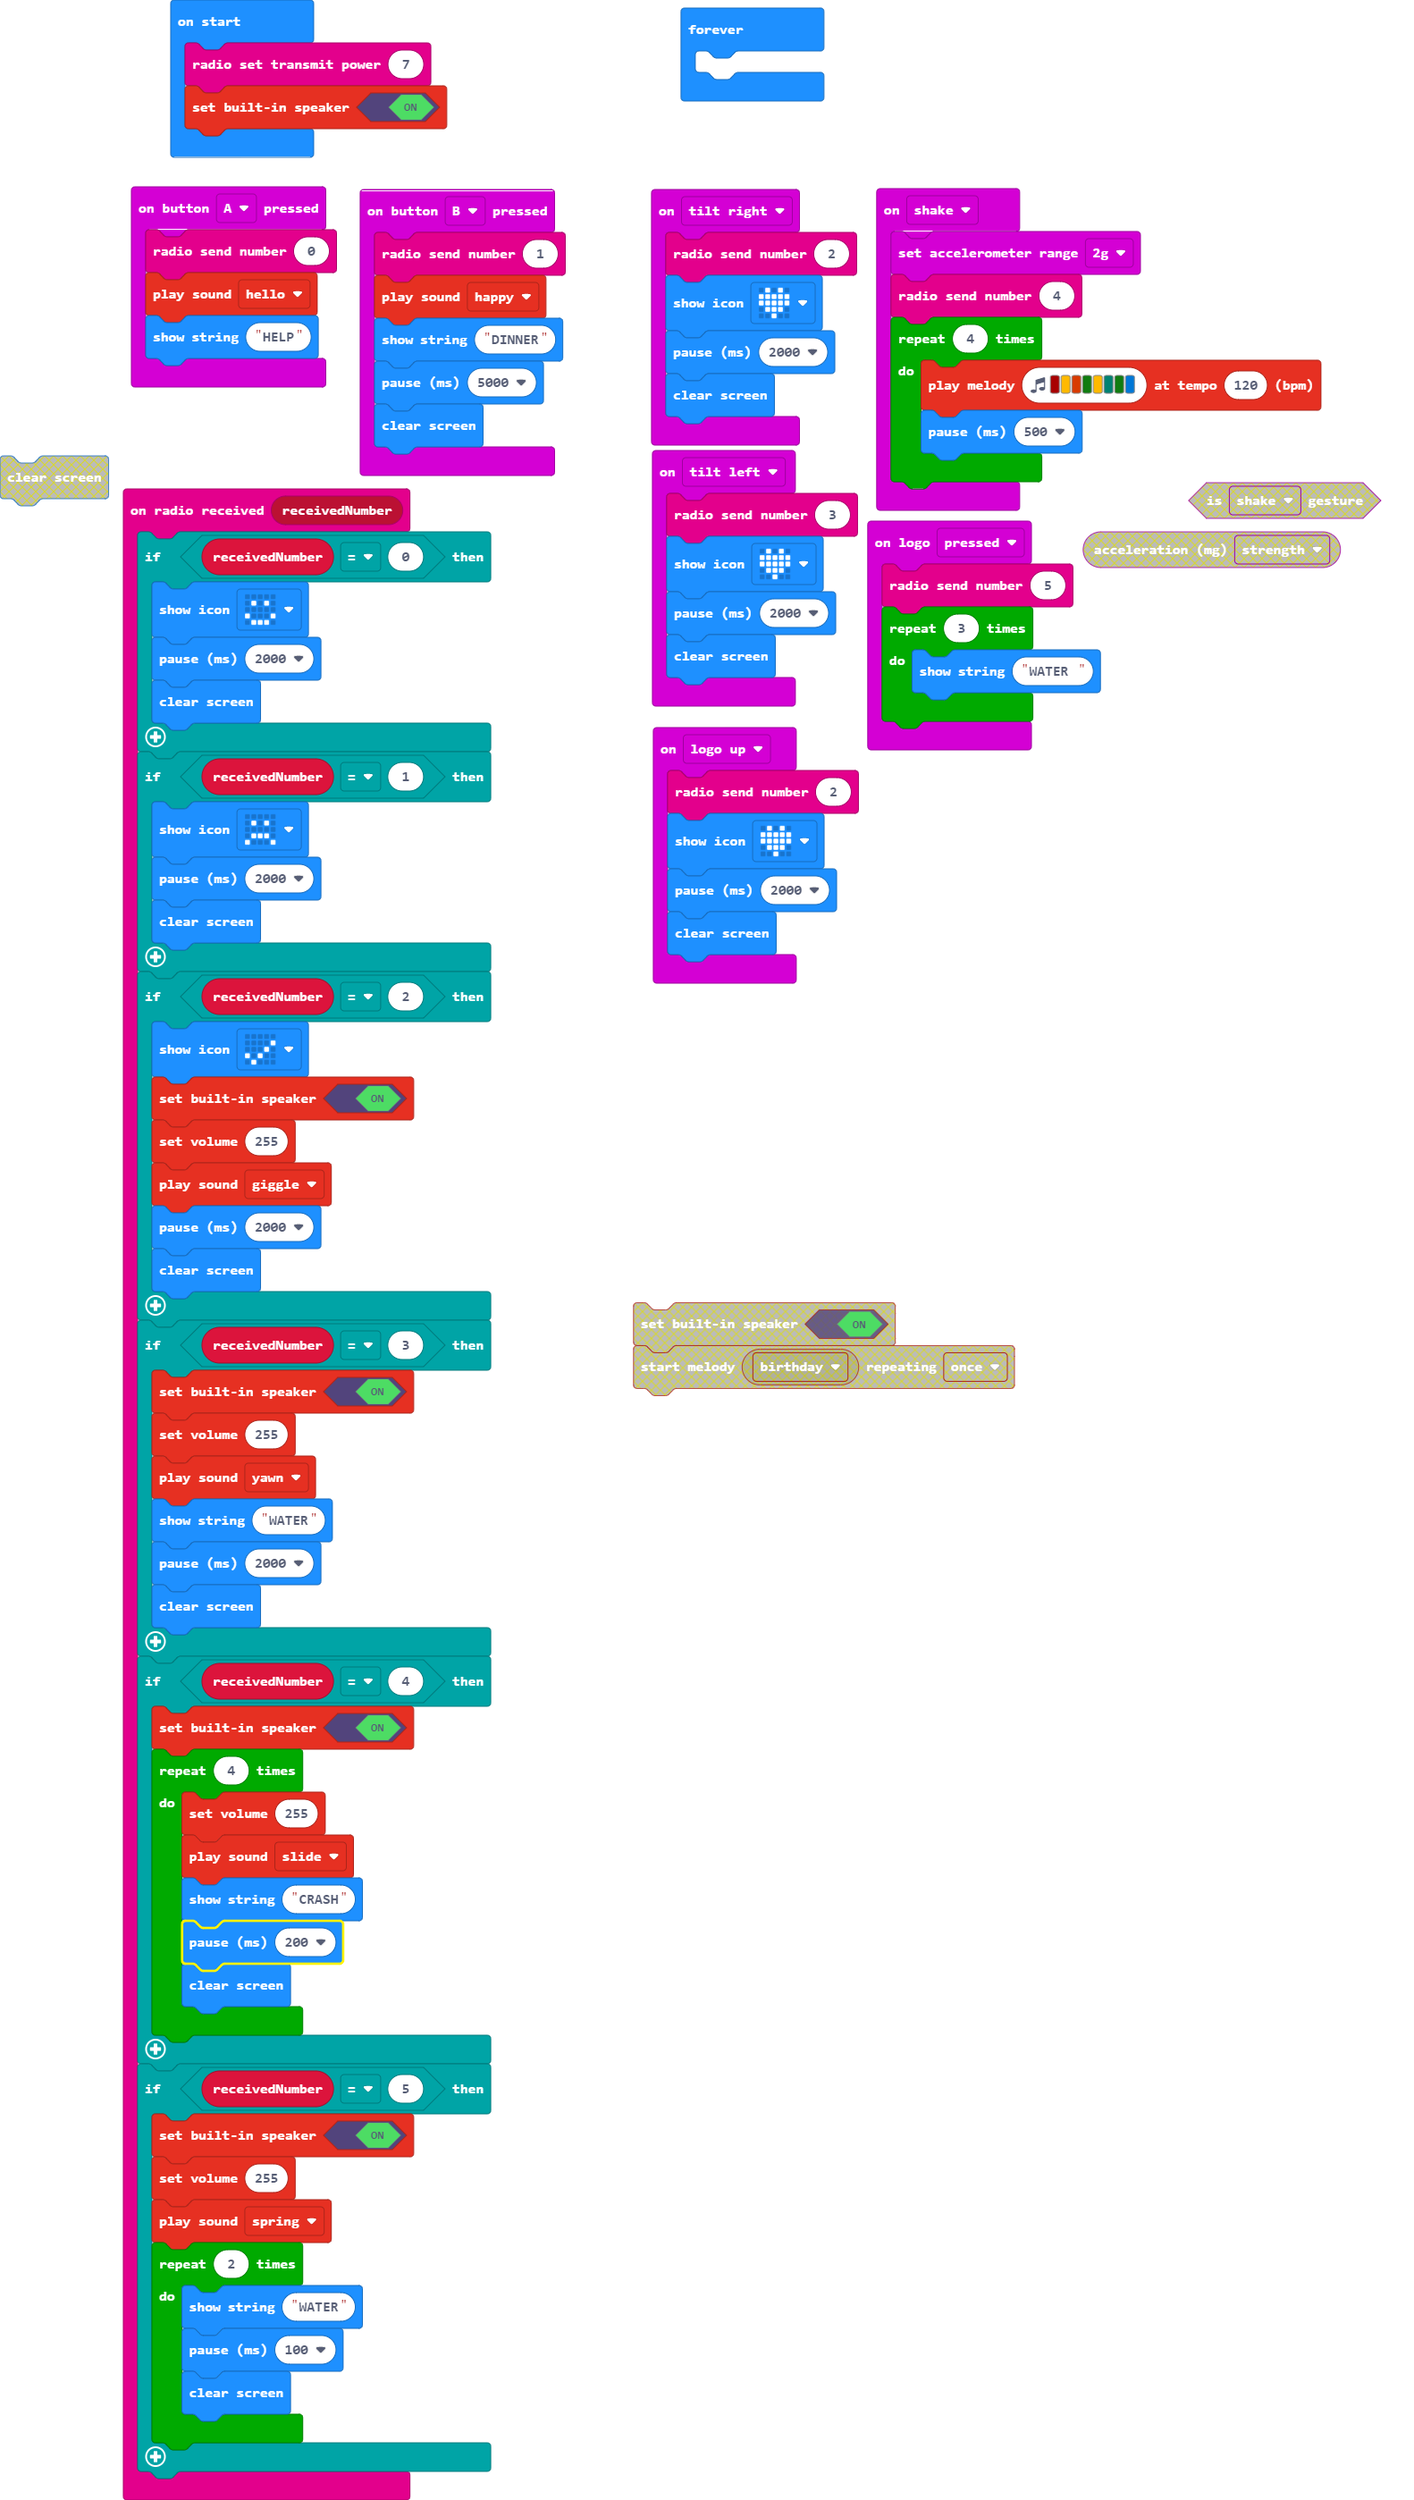
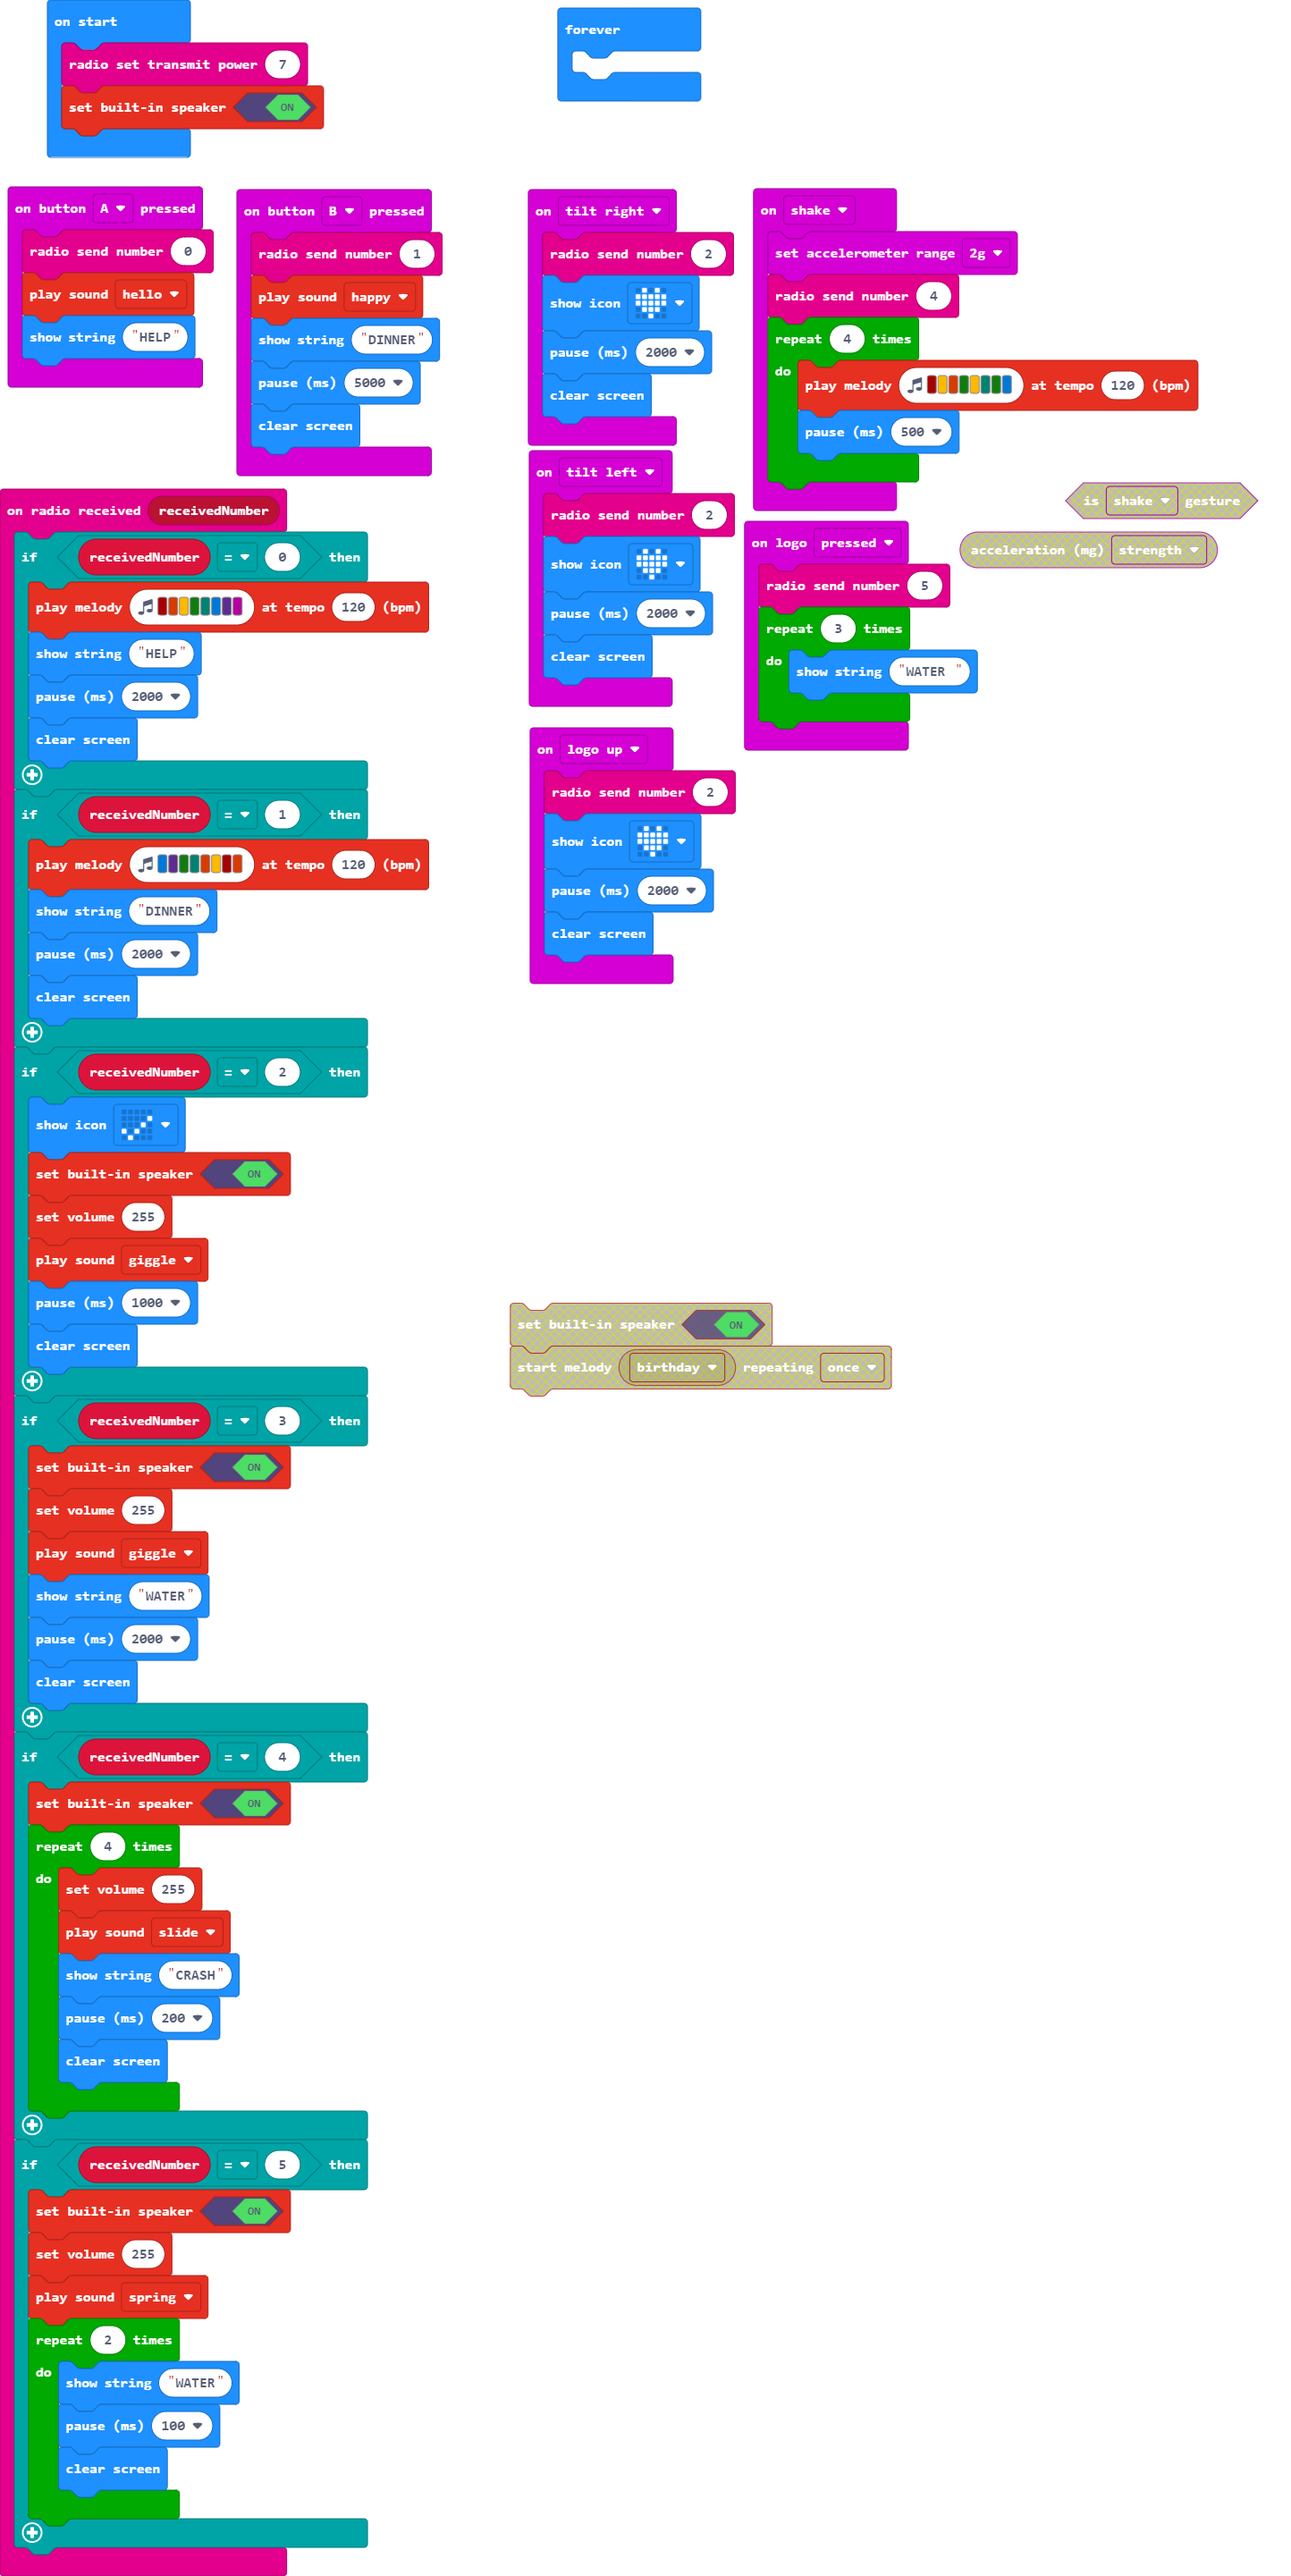
Update main.blocks, main.ts

diff --git a/main.ts b/main.ts
@@ -1,11 +1,13 @@
 radio.onReceivedNumber(function (receivedNumber) {
     if (receivedNumber == 0) {
-        basic.showIcon(IconNames.Happy)
+        music.playMelody("C5 B A G F E D C ", 120)
+        basic.showString("HELP")
         basic.pause(2000)
         basic.clearScreen()
     }
     if (receivedNumber == 1) {
-        basic.showIcon(IconNames.Sad)
+        music.playMelody("E D G F B A C5 B ", 120)
+        basic.showString("DINNER")
         basic.pause(2000)
         basic.clearScreen()
     }
@@ -14,13 +16,13 @@ radio.onReceivedNumber(function (receivedNumber) {
         music.setBuiltInSpeakerEnabled(true)
         music.setVolume(255)
         soundExpression.giggle.play()
-        basic.pause(2000)
+        basic.pause(1000)
         basic.clearScreen()
     }
     if (receivedNumber == 3) {
         music.setBuiltInSpeakerEnabled(true)
         music.setVolume(255)
-        soundExpression.yawn.play()
+        soundExpression.giggle.play()
         basic.showString("WATER")
         basic.pause(2000)
         basic.clearScreen()
@@ -58,7 +60,7 @@ input.onGesture(Gesture.LogoUp, function () {
     basic.clearScreen()
 })
 input.onGesture(Gesture.TiltLeft, function () {
-    radio.sendNumber(3)
+    radio.sendNumber(2)
     basic.showIcon(IconNames.Heart)
     basic.pause(2000)
     basic.clearScreen()
